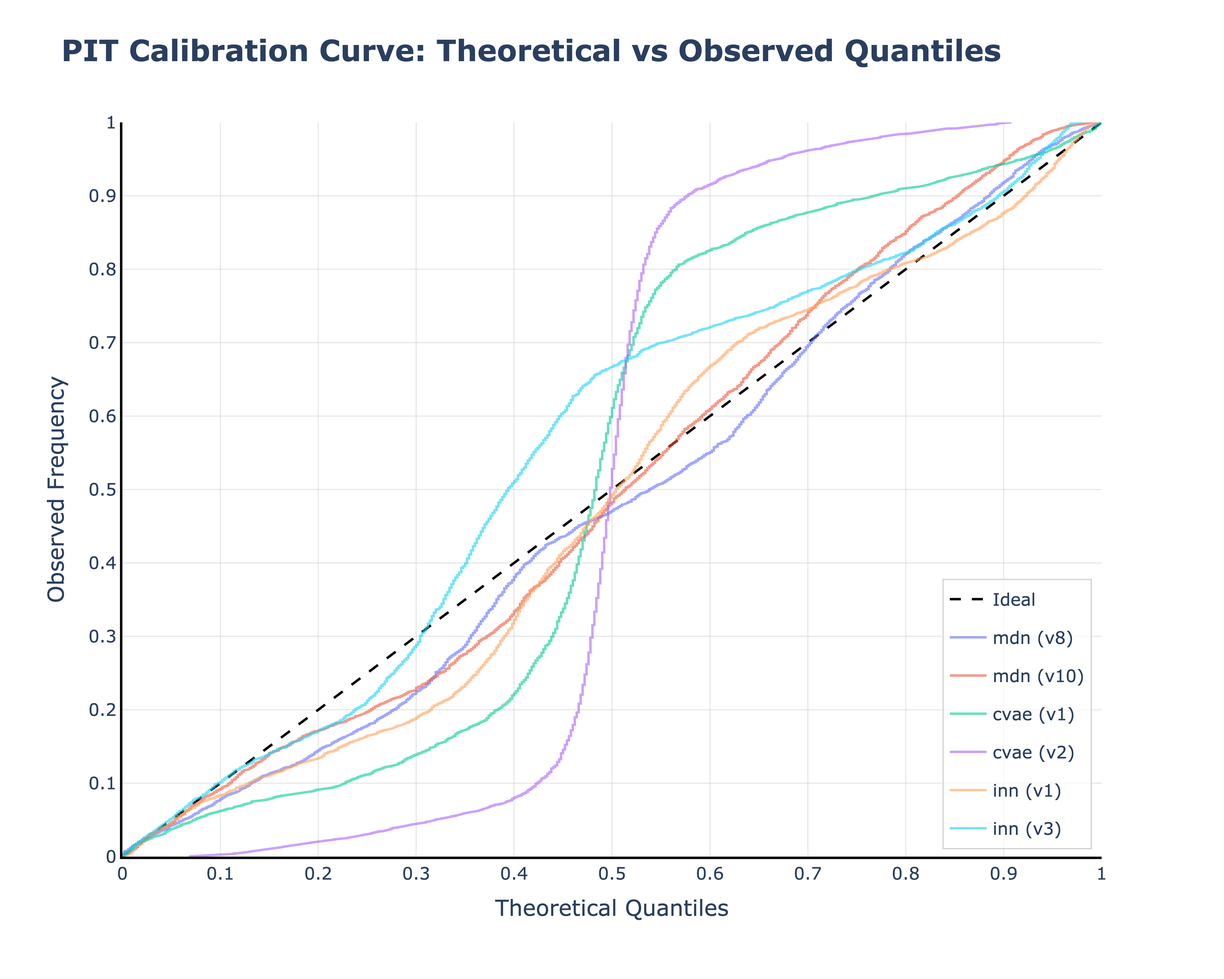
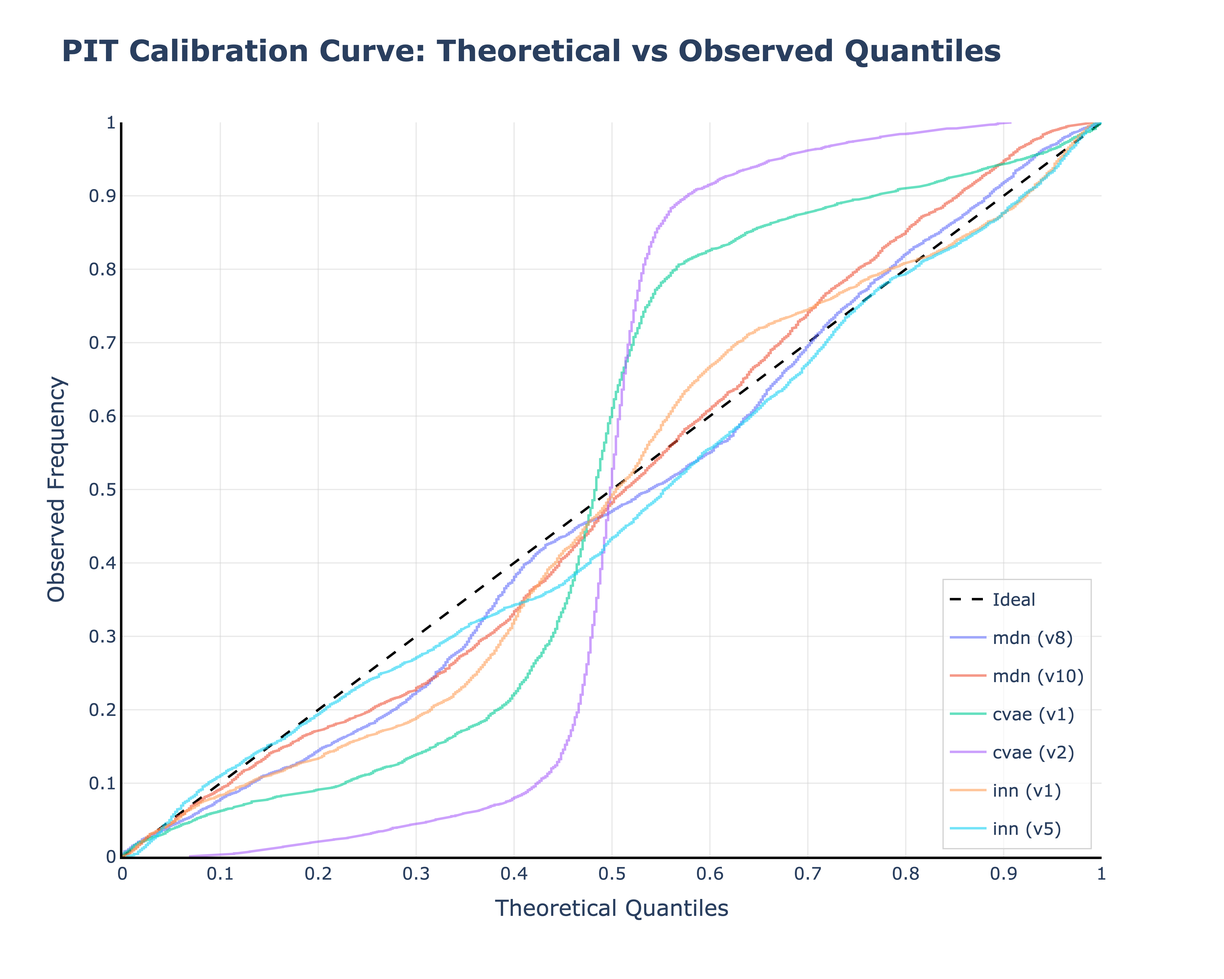
feat: Refine problem statement and proposed approach for inverse design, framing it as a conditional generative problem with multimodal predictions and set-level evaluation, and update related figures.

diff --git a/thesis/chapters/07_experiments.tex b/thesis/chapters/07_experiments.tex
@@ -142,9 +142,13 @@ To provide a complete profile of estimator reliability across a target set $\mat
 \end{equation}
 where $t \ge 0$ is a discrepancy threshold and $\mathbb{I}[\cdot]$ is the indicator function. The value $\widehat{F}(t)$ reports the proportion of targets solved to within accuracy $t$ under budget $K$. For example, if $N=5$ targets yield sorted best-shot scores $\{0.01, 0.02, 0.03, 0.04, 0.10\}$, the ECDF at threshold $t=0.03$ is $\widehat{F}(0.03) = 4/5 = 0.8$.
 
-
-
 We conducted a hyperparameter ablation study on the COCO $f_5$ (Linear Slope) problem to identify optimal configurations for the CVAE, MDN, and INN families. Figure~\ref{fig:ablation_ecdf_f5} presents the resulting ECDF curves. Visually, curves that rise faster (higher initial slope) indicate high precision, while the asymptotic behavior in the right tail indicates the fraction of targets that remain "hard" to solve.
+
+The ECDF profiles on the logarithmic discrepancy scale provide a high-resolution view of model performance, particularly at the extreme precision limits required for complex inverse tasks. The \texttt{mdn (v10)} and \texttt{inn (v1)} configurations emerge as the clear frontrunners, with their curves rising significantly earlier than the competition. At a discrepancy threshold of $10\mu$ ($10^{-5}$), these models have already successfully solved approximately $25\%$ of the targets, whereas the CVAE models have yet to register a single successful attainment. This indicates that the combination of MDN’s multi-modal density estimation and the INN’s bijective mapping provides the necessary "resolution" to place candidates in the immediate vicinity of the ground truth.
+
+A closer look at the architectural variants reveals that deeper models do not always equate to higher precision. In the INN family, the 6-layer \texttt{inn (v1)} consistently outperforms the 10-layer \texttt{inn (v5)} across the entire range of thresholds, suggesting that the simpler architecture is more effective at capturing the sharp peaks of the posterior distribution without introducing unnecessary training instability. Similarly, while \texttt{mdn (v8)} showed the best average probabilistic accuracy in earlier metrics, \texttt{mdn (v10)} demonstrates a slight advantage in the high-precision regime. This suggests that the use of Laplace kernels or increased mixture components ($K_{mix}=20$) in \texttt{v10} may provide better "best-shot" coverage for specific targets, even if the overall distribution is slightly less sharp than \texttt{v8}.
+
+The performance gap is most pronounced when examining the Conditional Variational Autoencoders. The \texttt{cvae (v2)} model displays a massive "attainment lag," with its curve only beginning to rise steeply around the $10^{-3}$ threshold—a point where the MDN and INN models have already solved over $90\%$ of the targets. Even the more expressive \texttt{cvae (v1)} remains significantly behind the leading architectures, only crossing the $50\%$ attainment mark at a discrepancy roughly ten times larger than that of the leading MDN. This behavior reinforces the conclusion that the latent bottleneck and the inherent pressure to match a Gaussian prior in CVAEs limit their ability to resolve the fine-grained multi-objective boundaries of the $f_5$ landscape, making them less suitable for tasks requiring high-fidelity inverse solutions.
 
 \begin{figure}[!htbp]
   \centering
@@ -153,26 +157,26 @@ We conducted a hyperparameter ablation study on the COCO $f_5$ (Linear Slope) pr
   \label{fig:ablation_ecdf_f5}
 \end{figure}
 
-
 The ECDF profiles highlight distinct architectural biases. The INN configurations demonstrate the steepest initial rise, reflecting the high-precision target matching enabled by their bijective nature. In contrast, the CVAE models often plateau earlier, suggesting that the latent bottleneck may limit precision in specific target regions. For MDNs, increasing the number of mixture components generally shifts the ECDF curve upward, reflecting better coverage of multi-modal inverse solutions.
 
-Based on these results, we select the configurations that dominate the low-discrepancy region ($t < 0.05$) for subsequent benchmarking (Table~\ref{tab:ablation_f5_selected}).
 
-\begin{table}[!htbp]
-  \centering
-  \caption{Selected hyperparameter configurations based on ECDF dominance.}
-  \label{tab:ablation_f5_selected}
-  \rarray{1.15}
-  \begin{tabular}{l l}
-    \toprule
-    \textbf{Model family} & \textbf{Selected configuration} \\
-    \midrule
-    CVAE & [Latent Dim: X, Decoder Depth: Y] \\
-    MDN  & [Mixture Components: Z, Hidden Layers: W] \\
-    INN  & [Coupling Layers: N, Subnet Size: M] \\
-    \bottomrule
-  \end{tabular}
-\end{table}
+% Based on these results, we select the configurations that dominate the low-discrepancy region ($t < 0.05$) for subsequent benchmarking (Table~\ref{tab:ablation_f5_selected}).
+
+% \begin{table}[!htbp]
+%   \centering
+%   \caption{Selected hyperparameter configurations based on ECDF dominance.}
+%   \label{tab:ablation_f5_selected}
+%   \rarray{1.15}
+%   \begin{tabular}{l l}
+%     \toprule
+%     \textbf{Model family} & \textbf{Selected configuration} \\
+%     \midrule
+%     CVAE & [Latent Dim: X, Decoder Depth: Y] \\
+%     MDN  & [Mixture Components: Z, Hidden Layers: W] \\
+%     INN  & [Coupling Layers: N, Subnet Size: M] \\
+%     \bottomrule
+%   \end{tabular}
+% \end{table}
 
 % %-------------------------------------------------------------------------------
 % \subsubsection{Candidate-cloud geometry}\label{subsubsec:objective_cloud}
@@ -286,23 +290,18 @@ To summarize calibration with a single scalar, we report the mean absolute calib
 \end{equation}
 A lower MACE value indicates that the PIT curve resides closer to the ideal diagonal, signifying superior statistical reliability.
 
-
-
 The empirical results for the COCO $f_5$ dataset reveal a sharp contrast in how different architectural philosophies navigate the complexities of multi-objective inverse problems. The data clearly distinguishes between models that merely learn a simplified mapping and those that truly capture the underlying distribution.
 
+The \texttt{mdn (v8)} configuration serves as a high-capacity powerhouse, achieving a remarkably low Mean Absolute Calibration Error (MACE $\approx$ 0.031). However, the \texttt{inn (v5)} configuration, utilizing 10 coupling layers, emerges as the most statistically reliable model in this study, tracking the ideal diagonal with the highest precision (MACE $\approx$ 0.028). Parallel to this, the \texttt{inn (v1)} model remains a strong contender, yielding a competitive MACE of 0.044. While \texttt{mdn (v10)} remains highly reliable, the slight increase in error compared to \texttt{v8} suggests that further increasing mixture complexity to 20 or changing noise kernels to Laplace may reach a point of diminishing returns.
 
+In contrast, the CVAE models exhibit significant calibration pathologies. The \texttt{cvae (v2)} configuration, in particular, suffers from a severe overconfidence problem. This is strikingly visible in its "S-shaped" PIT curve, which deviates most aggressively from the diagonal. This signature indicates that the model's predicted distributions are far too narrow. While \texttt{cvae (v1)} performs better than its counterpart, it still exhibits a MACE (0.116) that is nearly triple that of the MDN and INN leaders.
 
-
-The \texttt{mdn (v8)} configuration emerges as the high-capacity powerhouse within this study. By effectively resolving the multi-modal nature of the $f_5$ landscape, it achieves the lowest Mean Absolute Calibration Error (MACE $\approx$ 0.031). As seen in the PIT calibration plot, its curve (lavender-blue) tracks the ideal diagonal with remarkable precision, suggesting a highly "honest" estimation of posterior uncertainty. Parallel to this, the \texttt{inn (v1)} model serves as a strong contender; its structural bijectivity acts as a natural regularizer for the inverse mapping task, yielding a competitive MACE of 0.044. While \texttt{mdn (v10)} remains highly reliable, the slight increase in error compared to \texttt{v8} suggests that further increasing mixture complexity or changing noise kernels may reach a point of diminishing returns.
-
-In contrast, the CVAE models exhibit significant calibration pathologies. The \texttt{cvae (v2)} configuration, in particular, suffers from a severe overconfidence problem. This is strikingly visible in its "S-shaped" PIT curve, which deviates most aggressively from the diagonal. This signature indicates that the model's predicted distributions are far too narrow, failing to capture the true diversity of the inverse solution space. While \texttt{cvae (v1)} performs better than its counterpart, it still exhibits a MACE (0.116) that is nearly triple that of the MDN and INN leaders. These models tend to be statistically "blind" to certain regions of the Pareto front, over-concentrating density where it isn't justified.
-
-The results for the Invertible Neural Networks show that depth is not a universal remedy. Increasing the complexity from \texttt{inn (v1)} to \texttt{inn (v3)} (10 layers) actually led to a slight degradation in calibration (MACE 0.056). This suggests that for this specific dimensionality, the 6-layer architecture of \texttt{v1} provides the optimal balance between expressivity and training stability. Ultimately, the success of the MDN and INN variants validates that capturing the "honesty" of a distribution requires an architecture that respects the underlying probabilistic geometry rather than just minimizing a reconstruction loss.
+The results for the Invertible Neural Networks show that depth is a key driver for calibration reliability in this landscape. Increasing the complexity from \texttt{inn (v1)} to \texttt{inn (v5)} (10 layers) led to the lowest observed calibration error. Ultimately, the success of the MDN and INN variants validates that capturing the "honesty" of a distribution requires an architecture that respects the underlying probabilistic geometry.
 
 \begin{figure}[!htbp]
     \centering
     \includegraphics[width=\linewidth]{images/pit_calibration_curve.png}
-    \caption[PIT calibration curves across model configurations]{PIT calibration curves for different models on COCO $f_5$. The \texttt{mdn (v8)} and \texttt{mdn (v10)} curves reside closest to the diagonal, while \texttt{cvae (v2)} displays a prominent S-curve characteristic of high overconfidence.}
+    \caption[PIT calibration curves across model configurations]{PIT calibration curves for different models on COCO $f_5$. The \texttt{inn (v5)} and \texttt{mdn (v8)} curves reside closest to the diagonal, while \texttt{cvae (v2)} displays a prominent S-curve characteristic of high overconfidence.}
     \label{fig:f5_pit_ablation}
 \end{figure}
 
@@ -315,17 +314,17 @@ The results for the Invertible Neural Networks show that depth is not a universa
 \toprule
 Model Configuration & Details & MACE $\downarrow$ \\
 \midrule
-\textbf{mdn (v8)} & 3x256, $K_{mix}=10$, Normal, lr: 0.001 & \textbf{0.0312} \\
+\textbf{inn (v5)} & 10 layers, dim: 128, lr: 0.001 & \textbf{0.0281} \\
+mdn (v8) & 3x256, $K_{mix}=8$, Normal, lr: 0.001 & 0.0312 \\
 mdn (v10) & 3x256, $K_{mix}=20$, Laplace, lr: 0.001 & 0.0348 \\
 \midrule
-\textbf{inn (v1)} & 6 layers, dim: 128, lr: 0.001 & \textbf{0.0435} \\
-inn (v3) & 10 layers, dim: 128, lr: 0.001 & 0.0561 \\
+inn (v1) & 6 layers, dim: 128, lr: 0.001 & 0.0435 \\
 \midrule
 cvae (v1) & dim: 128, $z=8$, $\beta=0.1$, lr: 0.0001 & 0.1154 \\
 cvae (v2) & dim: 128, $z=4$, $\beta=0.5$, lr: 0.001 & 0.1923 \\
 \bottomrule
 \end{tabular}
-\caption[COCO $f_5$: MACE across all evaluated models]{Mean absolute calibration error (MACE) derived from PIT curves. The MDN variants demonstrate superior statistical reliability, while CVAE models show the highest calibration error.}
+\caption[COCO $f_5$: MACE across all evaluated models]{Mean absolute calibration error (MACE) derived from PIT curves. The 10-layer INN configuration demonstrates superior statistical reliability.}
 \label{tab:f5_mace_ablation}
 \end{table}
 
@@ -379,17 +378,22 @@ Finally, the Continuous Ranked Probability Score (CRPS) is employed to measure t
 \end{equation}
 where lower values are better. CRPS rewards models that concentrate probability mass near the ground truth while penalizing excessive dispersion, thus capturing the essential trade-off between precision and accuracy.
 
-We evaluate probabilistic accuracy via CRPS boxplots (Figure~\ref{fig:f5_crps_box_ablation}). These boxplots summarize the distribution of accuracy across held-out cases, highlighting both typical performance and failure tails. Hyperparameter variants are evaluated within each model family under the same candidate budget $K$ and over the same held-out test set.
+We evaluate probabilistic accuracy via CRPS bar charts (Figure~\ref{fig:f5_crps_ablation}). These charts summarize the typical performance across held-out cases. Hyperparameter variants are evaluated within each model family under the same candidate budget $K$ and over the same held-out test set.
 
+The distribution of CRPS values across the various architectures provides a rigorous metric for evaluating how effectively each model concentrates its probability mass near the ground truth. In this regard, the \texttt{mdn (v8)} configuration and the \texttt{inn (v1)} configuration demonstrate clear superiority, achieving the lowest CRPS values.
 
+The Mixture Density Network family shows that high-capacity hidden architectures are essential for minimizing probabilistic error. \texttt{mdn (v8)} stands as the most precise configuration in the study (CRPS $\approx$ 0.021). By utilizing three hidden layers of 256 units with 8 mixture components, the model provides sufficient expressive bandwidth to represent the decision space with sharp components. In contrast, the \texttt{mdn (v10)} configuration yields a slightly higher CRPS ($\approx$ 0.023).
 
-The distribution of CRPS values across the various architectures provides a rigorous metric for evaluating how effectively each model concentrates its probability mass near the ground truth. In this regard, the \texttt{mdn (v8)} configuration and the INN family demonstrate a clear superiority, achieving the lowest CRPS values, which signifies a superior balance between precision and accuracy.
+The Invertible Neural Network configurations, \texttt{inn (v1)} and \texttt{inn (v5)}, show the impact of model depth on precision. While \texttt{inn (v1)}, with its six coupling layers, effectively transforms the latent distribution into a sharp representation of the target posterior ($\approx 0.026$), the 10-layer \texttt{inn (v5)} exhibits a slightly higher CRPS ($\approx 0.030$). This suggests a state of diminishing returns; for a 2D decision space, the six-layer architecture provides a superior balance of precision compared to the more complex 10-layer variant.
 
-The Mixture Density Network family shows that high-capacity hidden architectures are essential for minimizing probabilistic error. \texttt{mdn (v8)} stands as the most precise configuration in the study (CRPS $\approx$ 0.021). By utilizing three hidden layers of 256 units with 10 mixture components, the model provides sufficient expressive bandwidth to represent the decision space with sharp, peaked components. In contrast, the \texttt{mdn (v10)} configuration utilizes a Laplace distribution kernel; while still highly effective, it yields a slightly higher CRPS ($\approx$ 0.023). This suggests that while heavier-tailed kernels can offer robustness, the Gaussian components in \texttt{v8} may be better suited for the specific density profiles of the $f_5$ landscape.
+In contrast, the Conditional Variational Autoencoders exhibit the poorest accuracy metrics. \texttt{cvae (v2)}, utilizing a higher $\beta=0.5$ and a constrained latent dimension of $z=4$, suffers from a pronounced variational bottleneck that leads to overly dispersed samples and the highest observed CRPS ($\approx$ 0.064). While \texttt{cvae (v1)} results in an improved score ($\approx$ 0.034), it still fails to reach the precision levels of the MDN or INN counterparts. The higher error in both CVAE configurations confirms that the expressive mixture modeling of \texttt{mdn (v8)} and the direct bijective mapping of the INN models are the most effective strategies for high-precision inverse exploration.
 
-The Invertible Neural Network configurations, \texttt{inn (v1)} and \texttt{inn (v3)}, provide a strong argument for structural precision. Both models achieve nearly identical CRPS values ($\approx$ 0.026), indicating a high level of consistency. \texttt{inn (v1)}, with its six coupling layers, effectively transforms the latent distribution into a sharp representation of the target posterior. The fact that \texttt{inn (v3)} does not significantly improve upon this score despite its increased depth (ten layers) suggests a state of diminishing returns; for a 2D decision space, the six-layer architecture already provides sufficient expressive power to map the complex multi-objective boundaries without the need for additional parameters.
-
-In contrast, the Conditional Variational Autoencoders exhibit the poorest accuracy metrics. \texttt{cvae (v2)}, utilizing a higher $\beta=0.5$ and a constrained latent dimension, suffers from a pronounced variational bottleneck that leads to overly dispersed samples and the highest observed CRPS ($\approx$ 0.064). While \texttt{cvae (v1)} employs a more expressive latent dimension and a lower $\beta=0.1$, resulting in a improved score ($\approx$ 0.034), it still fails to reach the precision levels of the MDN or INN counterparts. The higher error in both CVAE configurations confirms that the expressive mixture modeling of \texttt{mdn (v8)} and the direct bijective mapping of the INN models are the most effective strategies for high-precision inverse exploration.
+\begin{figure}[!htbp]
+    \centering
+    \includegraphics[width=\linewidth]{images/reliability_probabilistic_error_crps.png}
+    \caption[CRPS performance across model configurations]{CRPS values for all evaluated models. Lower bars indicate that \texttt{mdn (v8)} and \texttt{inn (v1)} produce more accurate conditional distributions.}
+    \label{fig:f5_crps_ablation}
+\end{figure}
 
 
 % The distribution of CRPS values across the various architectures provides a rigorous metric for evaluating how effectively each model concentrates its probability mass. In this regard, MDN7 and the INN family demonstrate a clear superiority, achieving the lowest median CRPS values while maintaining the tightest interquartile ranges.
@@ -400,14 +404,6 @@ In contrast, the Conditional Variational Autoencoders exhibit the poorest accura
 
 % In contrast, the Conditional Variational Autoencoders exhibit the poorest accuracy metrics. CVAE2, utilizing a higher $\beta=0.5$ and a constrained latent dimension of 4, suffers from a pronounced variational bottleneck that leads to dispersed samples. While CVAE1 employs a more expressive latent dimension of 8 and a lower $\beta=0.1$, the significantly slower learning rate (0.0001) prevents the model from achieving the same level of precision as the MDN or INN counterparts. The probability mass in both CVAE configurations tends to spread into non-optimal regions of the decision space, confirming that the expressive mixture modeling of MDN7 and the direct bijective mapping of the INN models are the most effective strategies for high-precision inverse exploration.
 
-
-
-\begin{figure}[!htbp]
-    \centering
-    \includegraphics[width=\linewidth]{images/reliability_probabilistic_error_crps.png}
-    \caption[CRPS boxplots across model configurations]{Distribution of per-case CRPS values for all evaluated models. Lower medians and narrower boxplots indicate that MDN7 and INN1 produce more accurate and sharper conditional distributions compared to the less precise CVAE and under-parameterized configurations.}
-    \label{fig:f5_crps_box_ablation}
-\end{figure}
 
 % %-------------------------------------------------------------------------------
 % \subsubsection{Ablation protocol, reporting, and selection}\label{subsubsec:decision_ablation}
@@ -545,29 +541,29 @@ In contrast, the Conditional Variational Autoencoders exhibit the poorest accura
 
 
 
-\section{Discussion of Results}
+% \section{Discussion of Results}
 
-Across benchmarks, Gaussian process regression emerges as the most
-effective inverse modelling strategy.  Its probabilistic nature allows
-uncertainty quantification and smooth interpolation, resulting in low
-forward error and generational distance.  Random forests are competitive,
-especially when the Pareto front is discontinuous or when training data
-is limited, thanks to their ability to capture local patterns and
-produce diverse candidates.  Radial basis function networks perform
-reasonably well but are sensitive to the choice of centres and require
-tuning; they scale poorly with high‑dimensional objectives.  Neural
-networks benefit from larger training sets and yield competitive results
-once overfitting is controlled.
+% Across benchmarks, Gaussian process regression emerges as the most
+% effective inverse modelling strategy.  Its probabilistic nature allows
+% uncertainty quantification and smooth interpolation, resulting in low
+% forward error and generational distance.  Random forests are competitive,
+% especially when the Pareto front is discontinuous or when training data
+% is limited, thanks to their ability to capture local patterns and
+% produce diverse candidates.  Radial basis function networks perform
+% reasonably well but are sensitive to the choice of centres and require
+% tuning; they scale poorly with high‑dimensional objectives.  Neural
+% networks benefit from larger training sets and yield competitive results
+% once overfitting is controlled.
 
-Data scarcity has a significant impact on inverse model accuracy.
-Increasing the number of training samples from 100 to 500 reduces the
-RMSE by approximately 40\% across models.  Transfer learning by pooling
-  samples from related problems improves performance when tasks share
-  similar objective definitions~\cite{Tan2023}.  The plausibility
-check effectively warns users when targets lie far from the sampled
-Pareto front; in our experiments less than 5\% of queries fell into this
-category, highlighting the quality of the data and the models.
+% Data scarcity has a significant impact on inverse model accuracy.
+% Increasing the number of training samples from 100 to 500 reduces the
+% RMSE by approximately 40\% across models.  Transfer learning by pooling
+%   samples from related problems improves performance when tasks share
+%   similar objective definitions~\cite{Tan2023}.  The plausibility
+% check effectively warns users when targets lie far from the sampled
+% Pareto front; in our experiments less than 5\% of queries fell into this
+% category, highlighting the quality of the data and the models.
 
-Overall, the experiments demonstrate that the proposed framework can
-produce high‑quality inverse predictions with modest computational
-resources and enables interactive trade‑off exploration.
+% Overall, the experiments demonstrate that the proposed framework can
+% produce high‑quality inverse predictions with modest computational
+% resources and enables interactive trade‑off exploration.

diff --git a/thesis/chapters/02_introduction.tex b/thesis/chapters/02_introduction.tex
@@ -55,14 +55,14 @@ The inverse viewpoint becomes especially relevant in multi-criteria design, wher
 
 
 
-
-\section{Problem statement and purpose}
+\section{Problem Statement and Purpose}
 
 Multi-criteria design tasks require translating preferences expressed in outcome space into concrete decisions in decision space. Let $\calX$ denote the decision space and let $\calY$ denote the outcome space. A forward map $f:\calX\to\calY$ relates decisions to outcomes. The inverse decision-mapping problem asks for a rule that, given a user-specified target $\vect{y}^{\star}\in\calY$, returns one or more candidate decisions $\widehat{\vect{x}}\in\calX$ whose forward outcomes $f(\widehat{\vect{x}})$ align with $\vect{y}^{\star}$ under an application-relevant notion of discrepancy.
 
-The difficulty is that, while the forward direction is typically accessible through modeling or simulation, the reverse relationship from outcomes to decisions is not directly available. In multi-objective settings, this reverse relationship can also be highly nonlinear and many-to-one: similar outcome vectors may arise from materially different decisions. These structural features make the inverse task substantially more challenging than forward evaluation and motivate methods that can support target-driven querying of the design space.
+While forward modeling is typically accessible through simulation, surrogate modeling, or analytical approximation, the reverse relationship from outcomes to decisions is not directly available. In multi-objective settings, this inverse relationship is often nonlinear and many-to-one: similar outcome vectors may arise from materially different decisions. As a result, a unique analytical inverse rarely exists, and naive inversion strategies can lead to unstable or ambiguous solutions. Existing forward-oriented approaches therefore do not directly support target-driven querying of the decision space. These structural characteristics make the inverse task substantially more challenging than forward evaluation and motivate the development of dedicated inverse modeling strategies.
 
-The purpose of this thesis is to develop and evaluate a methodology for inverse decision mapping from objective space to decision space in multi-objective problems. The methodology is intended to accept user-specified target objective vectors and return candidate decisions that correspond to the requested objectives when assessed through the forward map.
+In response to these challenges, this thesis develops and evaluates a methodology for inverse decision mapping from objective space to decision space in multi-objective problems. The proposed framework is designed to accept user-specified target objective vectors and return candidate decisions that reproduce the requested objectives when assessed through the forward map. The central objective is to construct an approach that supports reliable target attainment while accounting for the nonlinear and potentially multimodal structure of the inverse relationship.
+
 
 
 \section{Research questions}
@@ -74,32 +74,47 @@ The purpose of this thesis is to develop and evaluate a methodology for inverse 
 \end{enumerate}
 
 
-\section{Proposed approach and contributions}
+\section{Proposed Approach and Contributions}
 
-The approach starts from a dataset of paired examples $\mathcal{D}=\{(\vect{x}_i,\vect{y}_i)\}_{i=1}^N$
-generated by a forward process $\vect{y}=f(\vect{x})$ (or a consistent proxy). After applying consistent preprocessing in decision and outcome spaces, an inverse model is trained to accept a user-specified target $\vect{y}^{\star}$ and to return candidate decisions in $\calX$. Because the inverse relationship is commonly one-to-many, a single query produces a set of proposals $\{\widehat{\vect{x}}^{(k)}\}_{k=1}^K$, where $K$ controls the number of candidates and diversity is obtained through sampling or model stochasticity. Each proposal is then checked through forward verification by computing $f(\widehat{\vect{x}}^{(k)})$ and measuring agreement with the target using an outcome-space discrepancy measure $d_{\calY}(f(\widehat{\vect{x}}^{(k)}),\vect{y}^{\star})$. Results are reported using set-level summaries that reflect what a user receives from an inverse query, including best-achieved discrepancy over $K$ proposals and tolerance-based success rates across targets.
+This thesis approaches inverse decision mapping as a conditional generative modeling problem. Rather than attempting to analytically invert the forward map $f:\calX \to \calY$, the methodology learns an approximation of the conditional relationship between outcomes and decisions from data. Given a dataset of paired examples $\mathcal{D}=\{(\vect{x}_i,\vect{y}_i)\}_{i=1}^N$ generated by a forward process $\vect{y}=f(\vect{x})$ (or a consistent proxy), the inverse task is reformulated as learning a mapping from target outcomes to plausible decisions that could have produced them.
 
-The thesis makes three contributions:
+After applying consistent preprocessing in both decision and outcome spaces to ensure numerical stability and comparability, an inverse model is trained to approximate the conditional structure underlying the data. Because the inverse relationship is typically nonlinear and one-to-many, the proposed framework does not aim to return a single point estimate. Instead, it treats inverse mapping as a multimodal prediction problem: for a user-specified target $\vect{y}^{\star}\in\calY$, the model generates a set of candidate decisions $\{\widehat{\vect{x}}^{(k)}\}_{k=1}^K$. The parameter $K$ explicitly controls the number of proposals and enables diversity through sampling or model stochasticity. This design reflects the structural reality that materially different decisions may lead to similar objective outcomes.
+
+Each generated proposal is subjected to forward verification by evaluating $f(\widehat{\vect{x}}^{(k)})$ and computing an outcome-space discrepancy 
+\[
+d_{\calY}\!\left(f(\widehat{\vect{x}}^{(k)}), \vect{y}^{\star}\right).
+\]
+This explicit verification step separates generative prediction from objective-space validity and ensures that performance is assessed with respect to the original forward process rather than internal training losses.
+
+Evaluation is conducted at the level of inverse query sets, mirroring the information available to a user. Instead of single-point regression errors, performance summaries reflect attainable accuracy within a set of proposals. These include the best-achieved discrepancy across $K$ candidates and tolerance-based success rates over multiple targets. Such set-level metrics quantify whether the framework can reliably recover decisions that reproduce requested objectives while accounting for multimodality and sampling variability.
+
+The primary contributions of this thesis are as follows:
 \begin{itemize}
-  \item A precise formulation of inverse querying for multi-objective targets, specifying the query input, the form of the returned candidate set, and the role of forward verification in assessing candidate alignment.
-  \item A reproducible experimental protocol for objective-to-decision inverse mapping, including preprocessing conventions, querying procedures, and set-based performance reporting suitable for controlled comparison.
-  \item An empirical comparison of inverse-modeling strategies for learning outcome-to-decision relationships, clarifying how modeling choices affect performance under different amounts and structures of available data.
+    \item A formulation of inverse multi-objective design as a conditional generative problem that explicitly models one-to-many structure in the decision space.
+    \item A target-driven querying framework that produces diverse candidate decisions rather than single deterministic predictions.
+    \item A forward-verified evaluation protocol that measures performance in the original objective space and distinguishes attainable accuracy from probabilistic calibration.
+    \item A set-level assessment methodology that reflects the practical usage scenario of inverse design systems.
 \end{itemize}
-
-
 
 
 
 \section{Assumptions, limitations, and delimitations}
 \label{sec:assumptions-limitations-and-delimitations}
 
-The assumptions in this section apply to the inverse decision-mapping setting defined in the preceding sections, where a forward process $f:\calX\to\calY$ relates decisions to objective vectors and inverse queries are posed in objective space.
+The assumptions in this section apply to the inverse decision-mapping framework introduced above, where a forward process $f:\calX\to\calY$ relates decisions to objective vectors and inverse queries are posed directly in objective space.
 
-We assume access to a finite dataset of representative paired examples $\mathcal{D}=\{(\vect{x}_i,\vect{y}_i)\}_{i=1}^N$ generated by the forward process (or a trusted proxy consistent with it over the domain of interest). We assume that $\mathcal{D}$ provides meaningful coverage of the objective-space region in which targets are queried, and that a task-relevant discrepancy measure $d_{\calY}(\cdot,\cdot)$ is available for comparing objective vectors. We also assume that admissible decision ranges can be expressed through simple bound constraints that can be enforced during candidate generation.
+We assume access to a finite dataset of representative paired examples 
+\[
+\mathcal{D}=\{(\vect{x}_i,\vect{y}_i)\}_{i=1}^N
+\]
+generated by the forward process or by a trusted proxy that is consistent with it over the domain of interest. The forward mapping is assumed to be well-defined over the admissible decision region and sufficiently stable so that objective evaluations used for training and verification are comparable across samples. We further assume that $\mathcal{D}$ provides meaningful coverage of the objective-space region in which inverse targets are queried. 
 
-The primary limitation is coverage. Targets outside, or close to the boundary of, the objective region represented in $\mathcal{D}$ can induce extrapolation and degrade the reliability of inferred decisions. A related limitation is distribution shift between the examples used to learn the inverse relationship and the targets posed at use time. Finally, because multiple decisions can correspond to similar objective vectors, learned inverse models may not recover all distinct solution alternatives, especially when the available data under-represents certain regions or modes of the decision space.
+The proposed methodology also assumes that the inverse relationship between objectives and decisions exhibits sufficient regularity to be approximated from data. In particular, while the mapping from $\calY$ to $\calX$ may be nonlinear and one-to-many, we assume that its structure can be captured through data-driven modeling within the observed domain. If the inverse relationship were highly discontinuous, chaotic, or under-sampled, reliable approximation would not be possible from finite data. Additionally, a task-relevant discrepancy measure $d_{\calY}(\cdot,\cdot)$ is assumed available for comparing objective vectors, and admissible decision ranges are assumed to be expressible through bound constraints that can be enforced during candidate generation.
 
-We delimit the empirical scope to a small set of benchmark problems and publicly available datasets selected to support controlled comparison and reproducible evaluation, including objective vectors of dimension $m\geq 2$. Where visualization or analysis benefits from low-dimensional representations, results may be presented using two-dimensional views or projections; however, the methodology and evaluation criteria are stated for general $m$-dimensional objective spaces. Although the modeling and evaluation principles are intended to extend beyond these delimitations, the claims in this thesis are supported only within the studied settings.
+The primary limitation of the approach is coverage. Targets that lie outside, or near the boundary of, the objective region represented in $\mathcal{D}$ may induce extrapolation, leading to degraded reliability of inferred decisions. A related limitation arises from distribution shift between the examples used to learn the inverse relationship and the targets posed at deployment time. Because the inverse problem is inherently one-to-many, learned models may also fail to recover all distinct decision alternatives associated with a given objective vector, particularly when certain regions or modes of the decision space are sparsely represented in the data. As a consequence, the method does not guarantee completeness of the recovered solution set, but rather aims to provide representative and practically useful candidates within the learned domain.
+
+We delimit the empirical scope of this thesis to a small set of benchmark problems and publicly available datasets selected to support controlled comparison and reproducible evaluation, including objective vectors of dimension $m \geq 2$. Where visualization or interpretability benefits from low-dimensional representation, results may be presented using two-dimensional views or projections; however, the methodology and evaluation criteria are formulated for general $m$-dimensional objective spaces. Although the modeling and evaluation principles are intended to extend beyond these delimitations, the empirical claims of this thesis are supported only within the studied settings.
+
 
 
 
